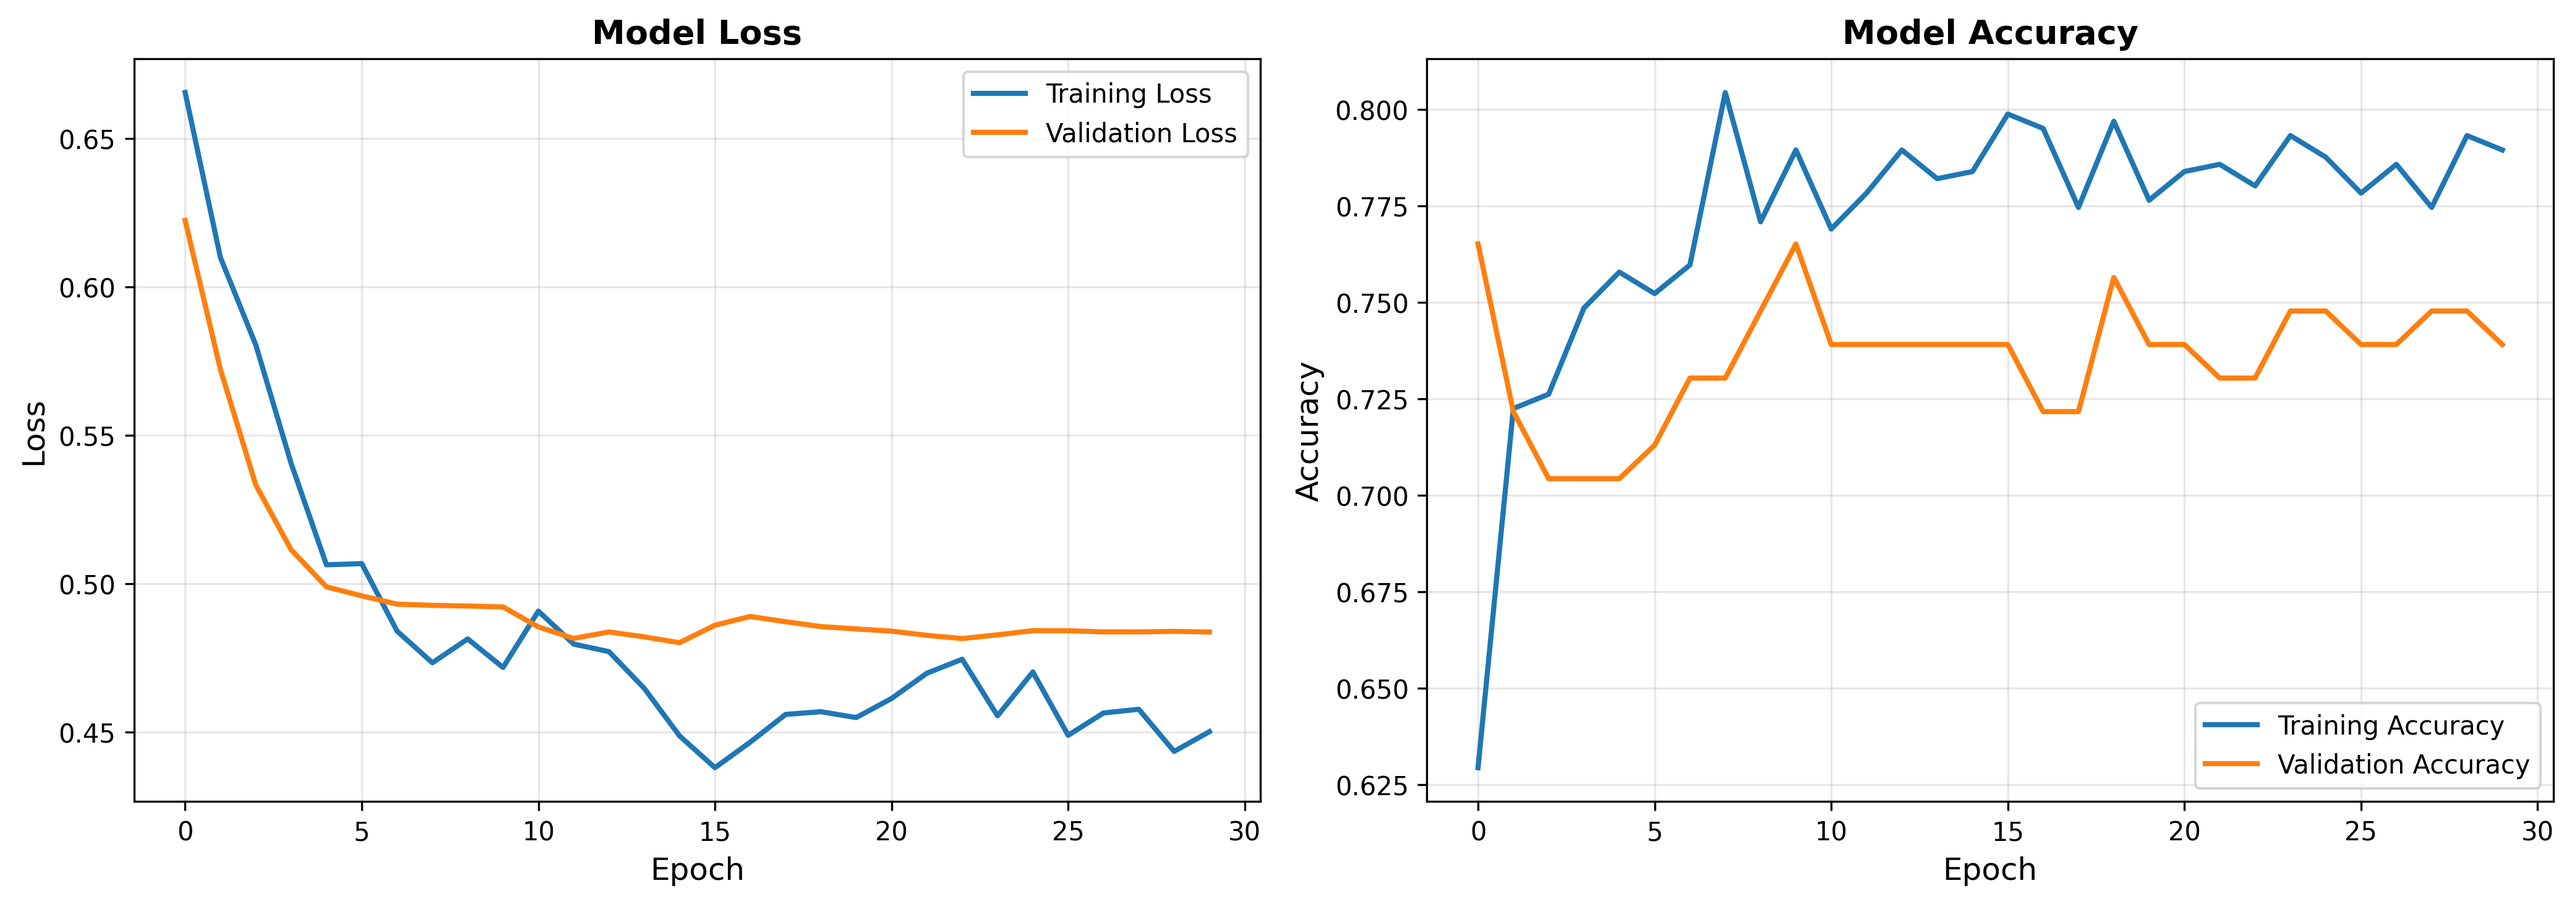
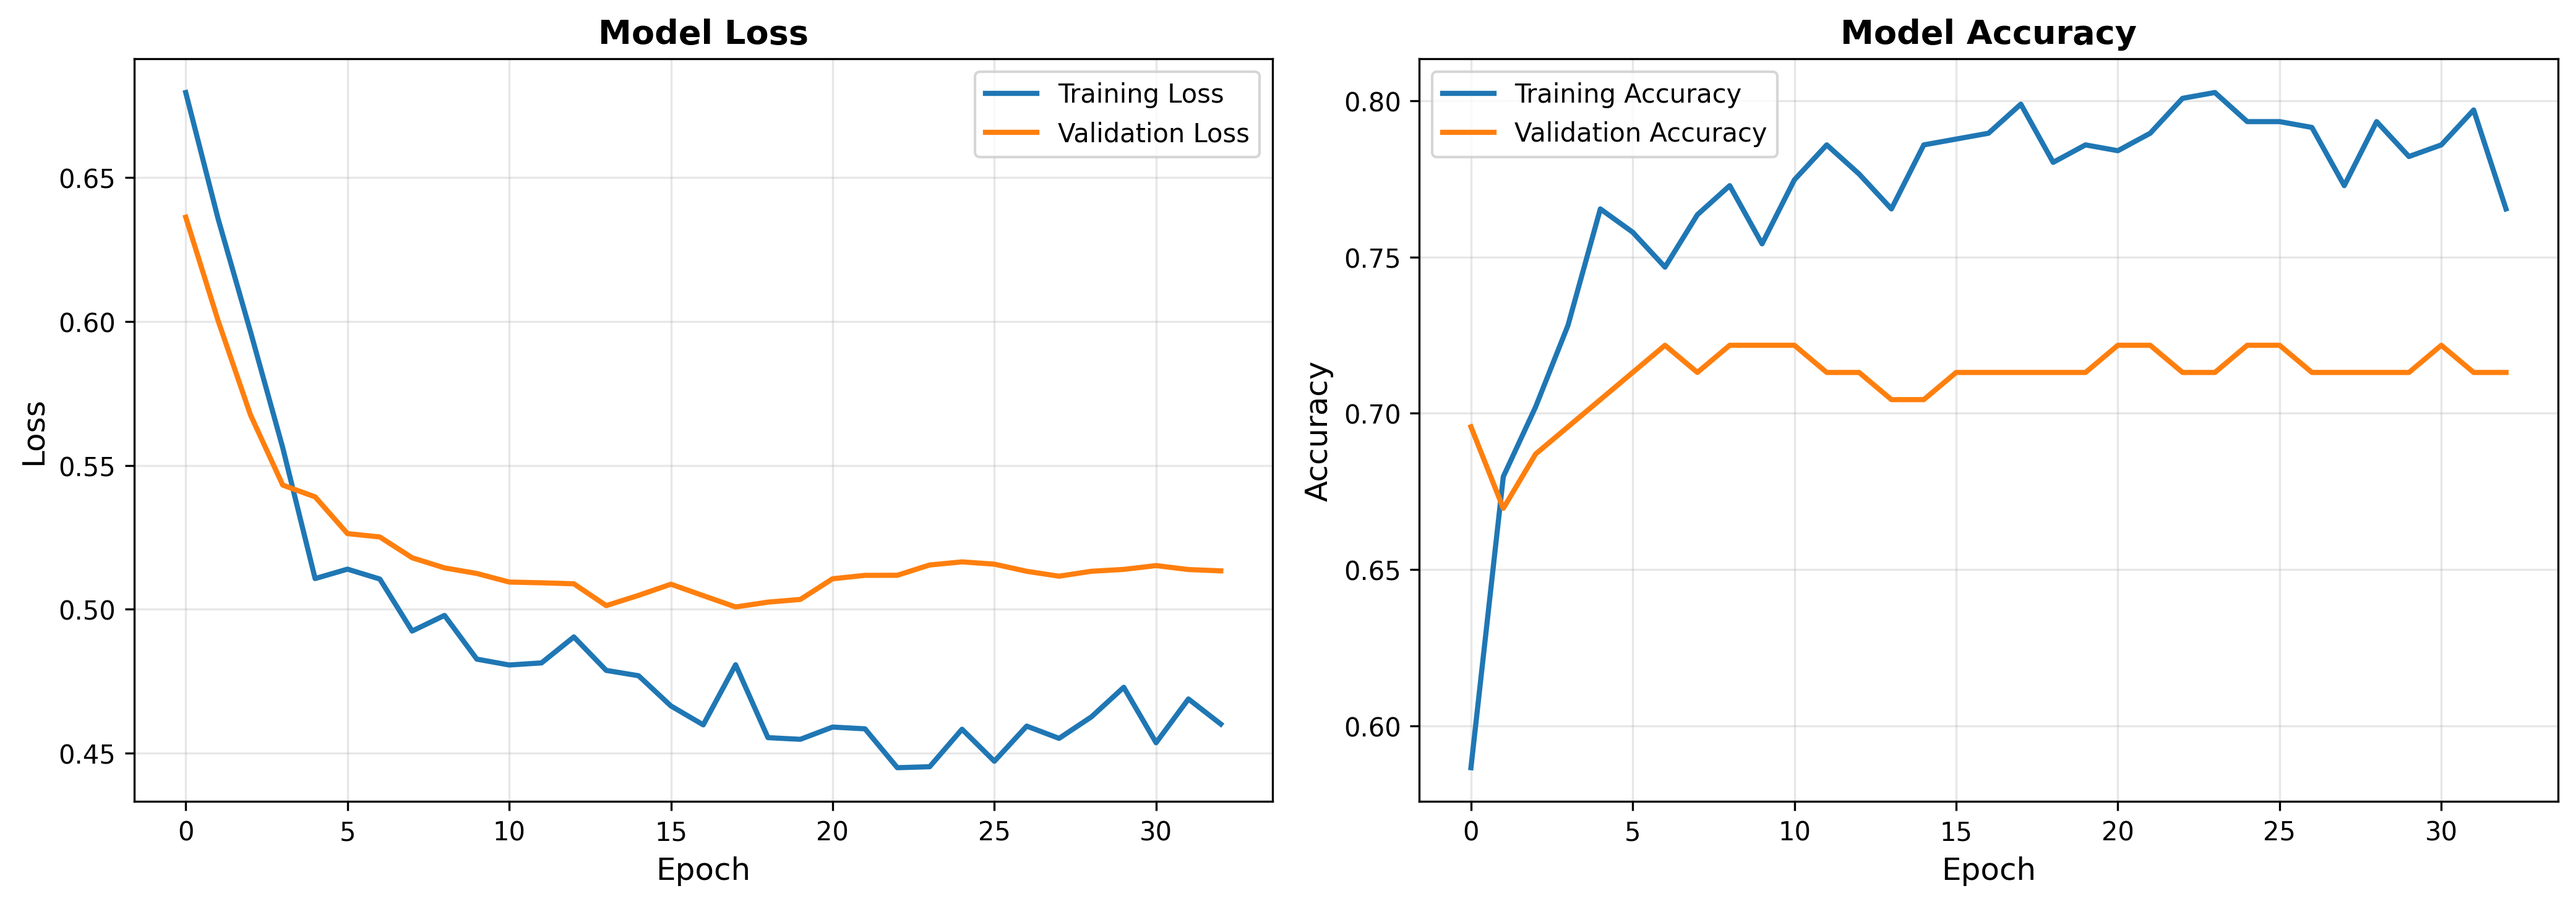
Update model metadata and copyright year; replace model file and training history image

diff --git a/app.py b/app.py
@@ -609,7 +609,7 @@ def main():
             <p>Powered by Deep Learning | Built with TensorFlow & Streamlit</p>
             <p>By 4 ISE students</p>
             <p>Mohammed Kamal | Aysha Raqib | Redyar Hasan | Rayan Husein</p>
-            <p>© 2024 - For Educational and Research Purposes</p>
+            <p>© 2025 - For Educational and Research Purposes</p>
         </div>
         """,
         unsafe_allow_html=True
